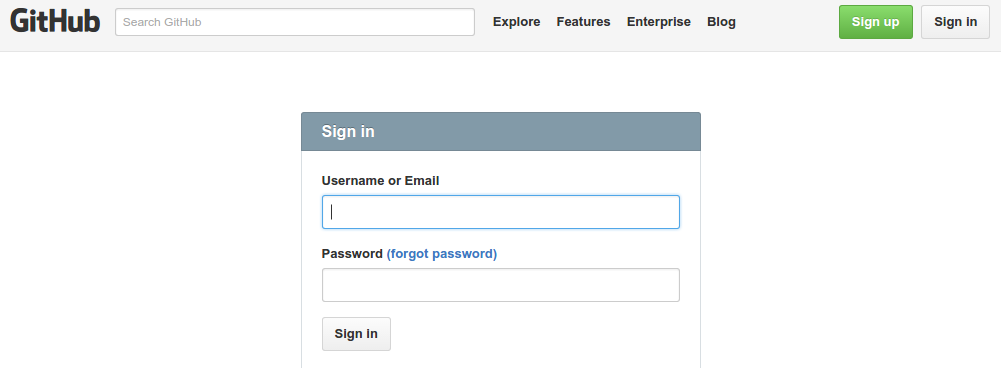
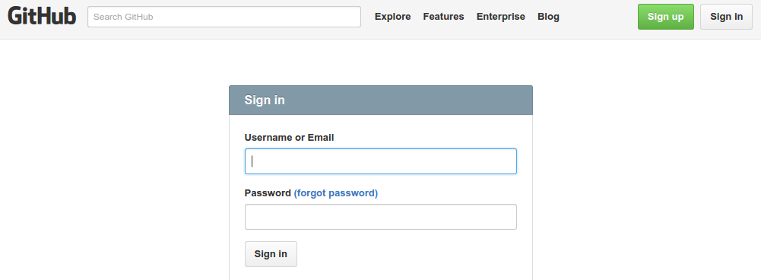
Updating travisCI screenshots + typo fix

diff --git a/pypi_deployment/index.html b/pypi_deployment/index.html
@@ -122,10 +122,7 @@
             <section><p>Be able to install your package with pip:</p>
 <div class="highlight"><pre><span class="lineno">1 </span><span class="nv">$ </span>pip install your_lovely_package
 </pre></div>
-
-<ul>
-<li>Needs to be available on PyPI</li>
-</ul></section>
+</section>
             
           </div>
           <div class="presenter_notes">
@@ -185,39 +182,39 @@
       
       <!-- slide source: pypi_deployment.md -->
       <div class="slide-wrapper">
-        <div class="slide">
+        <div class="slide has_code">
           <div class="inner">
             
             <header><h1>GitHub: Setup file</h1></header>
             
             
             <section><ul>
-<li>
-<p>Reusable apps tutorial @ <a href="https://docs.djangoproject.com/en/1.8/intro/reusable-apps/">https://docs.djangoproject.com/en/1.8/intro/reusable-apps/</a></p>
-<p>!python
-import os
-from setuptools import setup
-with open(os.path.join(os.path.dirname(<strong>file</strong>), 'README.md')) as readme:
-    README = readme.read()</p>
-<h1>allow setup.py to be run from any path</h1>
-<p>os.chdir(os.path.normpath(os.path.join(os.path.abspath(<strong>file</strong>), os.pardir)))
-setup(
-    name='your-lovely-package',
-    version='0.1',
-    packages=['your_lovely_package'],
-    include_package_data=True,
-    license='BSD License',  # example license
-    description='A simple lovely package.',
-    long_description=README,
-    url='https://github.com/romgar/your-lovely-package',
-    author='Romain Garrigues',
-    author_email='romain.garrigues.cs@gmail.com',
-    classifiers=[
-        'Framework :: Django',
-    ],
-)</p>
-</li>
-</ul></section>
+<li>Reusable apps tutorial @ <a href="https://docs.djangoproject.com/en/1.8/intro/reusable-apps/">https://docs.djangoproject.com/en/1.8/intro/reusable-apps/</a></li>
+</ul>
+<p>Example:</p>
+<div class="highlight"><pre><span class="lineno"> 1 </span><span class="kn">import</span> <span class="nn">os</span>
+<span class="lineno"> 2 </span><span class="kn">from</span> <span class="nn">setuptools</span> <span class="kn">import</span> <span class="n">setup</span>
+<span class="lineno"> 3 </span><span class="k">with</span> <span class="nb">open</span><span class="p">(</span><span class="n">os</span><span class="o">.</span><span class="n">path</span><span class="o">.</span><span class="n">join</span><span class="p">(</span><span class="n">os</span><span class="o">.</span><span class="n">path</span><span class="o">.</span><span class="n">dirname</span><span class="p">(</span><span class="n">__file__</span><span class="p">),</span> <span class="s">&#39;README.md&#39;</span><span class="p">))</span> <span class="k">as</span> <span class="n">readme</span><span class="p">:</span>
+<span class="lineno"> 4 </span>    <span class="n">README</span> <span class="o">=</span> <span class="n">readme</span><span class="o">.</span><span class="n">read</span><span class="p">()</span>
+<span class="lineno"> 5 </span><span class="c"># allow setup.py to be run from any path</span>
+<span class="lineno"> 6 </span><span class="n">os</span><span class="o">.</span><span class="n">chdir</span><span class="p">(</span><span class="n">os</span><span class="o">.</span><span class="n">path</span><span class="o">.</span><span class="n">normpath</span><span class="p">(</span><span class="n">os</span><span class="o">.</span><span class="n">path</span><span class="o">.</span><span class="n">join</span><span class="p">(</span><span class="n">os</span><span class="o">.</span><span class="n">path</span><span class="o">.</span><span class="n">abspath</span><span class="p">(</span><span class="n">__file__</span><span class="p">),</span> <span class="n">os</span><span class="o">.</span><span class="n">pardir</span><span class="p">)))</span>
+<span class="lineno"> 7 </span><span class="n">setup</span><span class="p">(</span>
+<span class="lineno"> 8 </span>    <span class="n">name</span><span class="o">=</span><span class="s">&#39;your-lovely-package&#39;</span><span class="p">,</span>
+<span class="lineno"> 9 </span>    <span class="n">version</span><span class="o">=</span><span class="s">&#39;0.1&#39;</span><span class="p">,</span>
+<span class="lineno">10 </span>    <span class="n">packages</span><span class="o">=</span><span class="p">[</span><span class="s">&#39;your_lovely_package&#39;</span><span class="p">],</span>
+<span class="lineno">11 </span>    <span class="n">include_package_data</span><span class="o">=</span><span class="bp">True</span><span class="p">,</span>
+<span class="lineno">12 </span>    <span class="n">license</span><span class="o">=</span><span class="s">&#39;BSD License&#39;</span><span class="p">,</span>  <span class="c"># example license</span>
+<span class="lineno">13 </span>    <span class="n">description</span><span class="o">=</span><span class="s">&#39;A simple lovely package.&#39;</span><span class="p">,</span>
+<span class="lineno">14 </span>    <span class="n">long_description</span><span class="o">=</span><span class="n">README</span><span class="p">,</span>
+<span class="lineno">15 </span>    <span class="n">url</span><span class="o">=</span><span class="s">&#39;https://github.com/romgar/your-lovely-package&#39;</span><span class="p">,</span>
+<span class="lineno">16 </span>    <span class="n">author</span><span class="o">=</span><span class="s">&#39;Romain Garrigues&#39;</span><span class="p">,</span>
+<span class="lineno">17 </span>    <span class="n">author_email</span><span class="o">=</span><span class="s">&#39;romain.garrigues.cs@gmail.com&#39;</span><span class="p">,</span>
+<span class="lineno">18 </span>    <span class="n">classifiers</span><span class="o">=</span><span class="p">[</span>
+<span class="lineno">19 </span>        <span class="s">&#39;Framework :: Django&#39;</span><span class="p">,</span>
+<span class="lineno">20 </span>    <span class="p">],</span>
+<span class="lineno">21 </span><span class="p">)</span>
+</pre></div>
+</section>
             
           </div>
           <div class="presenter_notes">
@@ -244,17 +241,14 @@ setup(
         <div class="slide">
           <div class="inner">
             
-            <header><h1>Travis-CI</h1></header>
+            <header><h1>Travis-CI : Create an account</h1></header>
             
             
             <section><ul>
-<li>
-<p>Continuous integration platform for GitHub project @ <a href="https://travis-ci.org/">https://travis-ci.org/</a></p>
-</li>
-<li>
-<p>Trigger scripts on every commit on every branch of your GitHub projects</p>
-</li>
-</ul></section>
+<li>Continuous integration platform for GitHub projects @ <a href="https://travis-ci.org/">https://travis-ci.org/</a></li>
+<li>Trigger scripts on every commit on every branch of your GitHub projects</li>
+</ul>
+<p><img alt="travis-landing_page" src="images/travis_landing_page.png" /></p></section>
             
           </div>
           <div class="presenter_notes">
@@ -281,11 +275,10 @@ setup(
         <div class="slide">
           <div class="inner">
             
-            <header><h1>Travis-CI: Create an account</h1></header>
+            <header><h1>Travis-CI: Link GitHub account</h1></header>
             
             
-            <section><p><img alt="travis-landing_page" src="images/travis_landing_page.png" />
-<img alt="github-login" src="images/github_login.png" /></p></section>
+            <section><p><img alt="github-login" src="images/github_login.png" /></p></section>
             
           </div>
           <div class="presenter_notes">
@@ -340,23 +333,22 @@ setup(
       
       <!-- slide source: pypi_deployment.md -->
       <div class="slide-wrapper">
-        <div class="slide">
+        <div class="slide has_code">
           <div class="inner">
             
             <header><h1>GitHub: configure travis</h1></header>
             
             
-            <section><ul>
-<li>
-<p>Create a .travis.xml file on your GitHub repository root.</p>
-<p>!python
-language: python</p>
-<p>python:
-  - "2.7"</p>
-<p>script:
-  - touch foo</p>
-</li>
-</ul></section>
+            <section><p>Create a .travis.xml file on your GitHub repository root:</p>
+<div class="highlight"><pre><span class="lineno">1 </span>language: python
+<span class="lineno">2 </span>
+<span class="lineno">3 </span>python:
+<span class="lineno">4 </span>  - <span class="s2">&quot;2.7&quot;</span>
+<span class="lineno">5 </span>
+<span class="lineno">6 </span>script:
+<span class="lineno">7 </span>  - touch foo
+</pre></div>
+</section>
             
           </div>
           <div class="presenter_notes">
@@ -386,22 +378,22 @@ language: python</p>
             <header><h1>GitHub: deploy section in travis config file</h1></header>
             
             
-            <section><div class="highlight"><pre><span class="lineno"> 1 </span><span class="n">language</span><span class="p">:</span> <span class="n">python</span>
+            <section><div class="highlight"><pre><span class="lineno"> 1 </span>language: python
 <span class="lineno"> 2 </span>
-<span class="lineno"> 3 </span><span class="n">python</span><span class="p">:</span>
-<span class="lineno"> 4 </span>    <span class="o">-</span> <span class="s">&quot;2.7&quot;</span>
+<span class="lineno"> 3 </span>python:
+<span class="lineno"> 4 </span>    - <span class="s2">&quot;2.7&quot;</span>
 <span class="lineno"> 5 </span>
-<span class="lineno"> 6 </span><span class="n">script</span><span class="p">:</span>
-<span class="lineno"> 7 </span>    <span class="o">-</span> <span class="n">touch</span> <span class="n">foo</span>
+<span class="lineno"> 6 </span>script:
+<span class="lineno"> 7 </span>    - touch foo
 <span class="lineno"> 8 </span>
-<span class="lineno"> 9 </span><span class="n">deploy</span><span class="p">:</span>
-<span class="lineno">10 </span>    <span class="n">provider</span><span class="p">:</span> <span class="n">pypi</span>
-<span class="lineno">11 </span>    <span class="n">user</span><span class="p">:</span> <span class="n">romgar</span>
-<span class="lineno">12 </span>    <span class="n">password</span><span class="p">:</span>
-<span class="lineno">13 </span>        <span class="n">secure</span><span class="p">:</span> <span class="n">my_secure_password</span>
-<span class="lineno">14 </span>    <span class="n">on</span><span class="p">:</span>
-<span class="lineno">15 </span>        <span class="n">tags</span><span class="p">:</span> <span class="n">true</span>
-<span class="lineno">16 </span>        <span class="n">branch</span><span class="p">:</span> <span class="n">master</span>
+<span class="lineno"> 9 </span>deploy:
+<span class="lineno">10 </span>    provider: pypi
+<span class="lineno">11 </span>    user: romgar
+<span class="lineno">12 </span>    password:
+<span class="lineno">13 </span>        secure: my_secure_password
+<span class="lineno">14 </span>    on:
+<span class="lineno">15 </span>        tags: <span class="nb">true</span>
+<span class="lineno">16 </span><span class="nb">        </span>branch: master
 </pre></div>
 </section>
             
@@ -473,7 +465,7 @@ language: python</p>
 <li>Create a .travis.yml, with a deploy section.</li>
 <li>Generate secure password.</li>
 <li>Well done !!!</li>
-<li>Every steps explained in details @ <a href="http://5minutes.youkidea.com/howto-deploy-python-package-on-pypi-with-github-and-travis.html">5minutes.youkidea.com</a></li>
+<li>Every step explained in details @ <a href="http://5minutes.youkidea.com/howto-deploy-python-package-on-pypi-with-github-and-travis.html">5minutes.youkidea.com</a></li>
 </ul></section>
             
           </div>
@@ -535,13 +527,13 @@ language: python</p>
       
       
       <tr id="toc-row-6">
-        <th><a href="#slide6">Travis-CI</a></th>
+        <th><a href="#slide6">Travis-CI : Create an account</a></th>
         <td><a href="#slide6">6</a></td>
       </tr>
       
       
       <tr id="toc-row-7">
-        <th><a href="#slide7">Travis-CI: Create an account</a></th>
+        <th><a href="#slide7">Travis-CI: Link GitHub account</a></th>
         <td><a href="#slide7">7</a></td>
       </tr>
       

diff --git a/pypi_deployment/pypi_deployment.md b/pypi_deployment/pypi_deployment.md
@@ -20,8 +20,6 @@ Be able to install your package with pip:
     !bash
     $ pip install your_lovely_package
 
-- Needs to be available on PyPI
-
 ---
 
 # GitHub: Your project
@@ -40,6 +38,8 @@ You only need:
 # GitHub: Setup file
 
 - Reusable apps tutorial @ [https://docs.djangoproject.com/en/1.8/intro/reusable-apps/](https://docs.djangoproject.com/en/1.8/intro/reusable-apps/)
+
+Example:
 
     !python
     import os
@@ -66,20 +66,19 @@ You only need:
 
 ---
 
-# Travis-CI
+# Travis-CI : Create an account
 
-- Continuous integration platform for GitHub project @ [https://travis-ci.org/](https://travis-ci.org/)
-
+- Continuous integration platform for GitHub projects @ [https://travis-ci.org/](https://travis-ci.org/)
 - Trigger scripts on every commit on every branch of your GitHub projects
+
+![travis-landing_page][travis_landing_page]
+[travis_landing_page]: images/travis_landing_page.png
 
 ---
 
-# Travis-CI: Create an account
+# Travis-CI: Link GitHub account
 
-![travis-landing_page][travis_landing_page]
 ![github-login][github_login]
-
-[travis_landing_page]: images/travis_landing_page.png
 [github_login]: images/github_login.png
 
 ---
@@ -94,9 +93,9 @@ You only need:
 
 # GitHub: configure travis
 
-- Create a .travis.xml file on your GitHub repository root.
+Create a .travis.xml file on your GitHub repository root:
 
-    !python
+    !shell
     language: python
 
     python:
@@ -109,7 +108,7 @@ You only need:
 
 # GitHub: deploy section in travis config file
 
-    !python
+    !shell
     language: python
 
     python:
@@ -146,4 +145,4 @@ The generated password will be automatically added to your .travis.yml config fi
 - Create a .travis.yml, with a deploy section.
 - Generate secure password.
 - Well done !!!
-- Every steps explained in details @ [5minutes.youkidea.com](http://5minutes.youkidea.com/howto-deploy-python-package-on-pypi-with-github-and-travis.html)
+- Every step explained in details @ [5minutes.youkidea.com](http://5minutes.youkidea.com/howto-deploy-python-package-on-pypi-with-github-and-travis.html)
